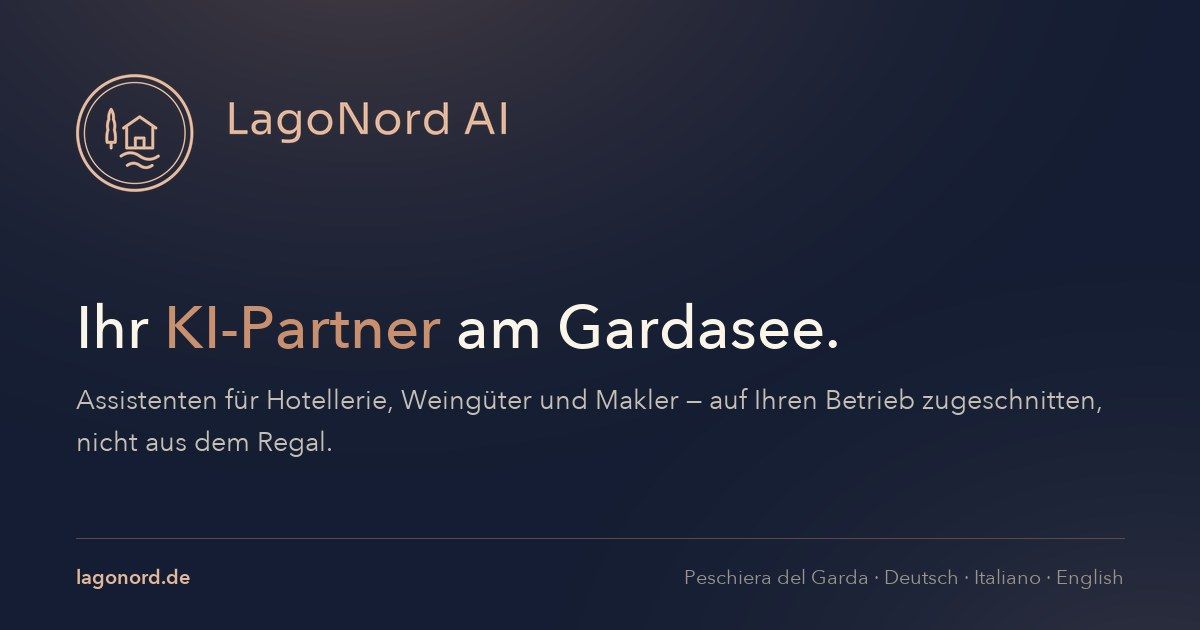
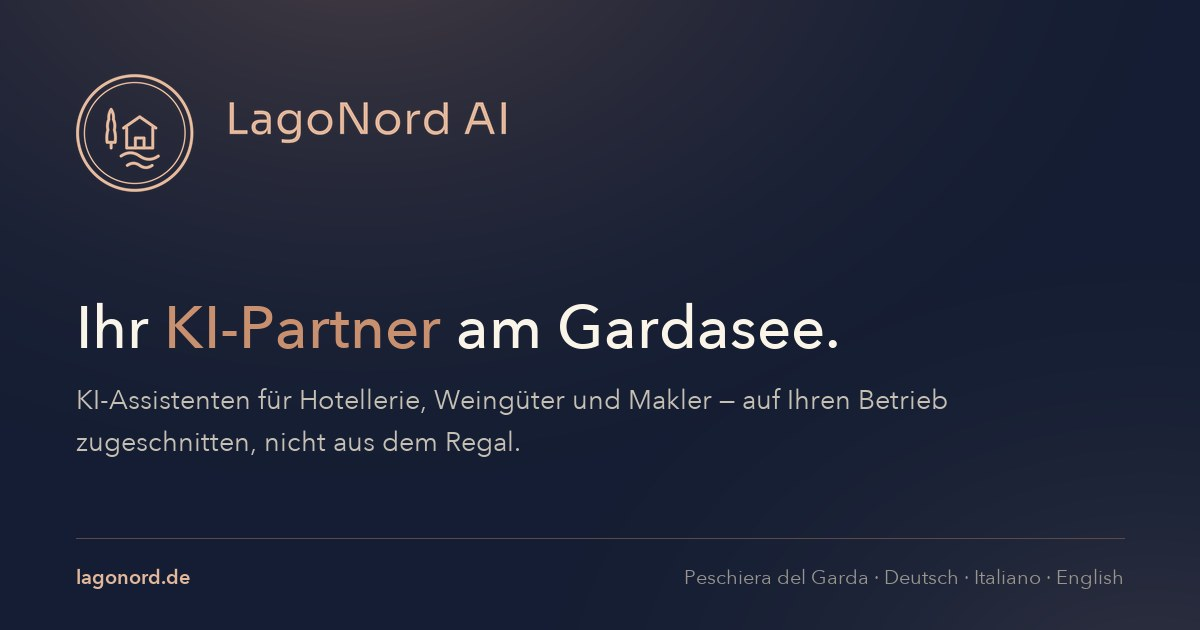
Teilbarkeit: OG-Bild und Beschreibungen nachgezogen
OG-Bild neu gerendert: die Unterzeile sagte "Assistenten", die
freigegebene Copy sagt "KI-Assistenten". Im Artefakt, fuer das Ae8
existiert, stand damit in jedem geteilten Link das abweichende Wort.
Sonst unveraendert, 1200x630, 51 KB.

Beschreibungen gekuerzt: die alte Fassung war 169 Zeichen und wurde bei
etwa 155 abgeschnitten — weg fiel gerade "auf Deutsch, Italienisch und
Englisch", also das Unterscheidungsmerkmal. Jetzt DE 137, IT 117, EN 127
Zeichen, die drei Sprachen in allen dreien enthalten. Der einleitende
Halbsatz entfaellt, den traegt der Titel ohnehin.

Gesetzt an allen vier Stellen der deutschen Fassung plus META.it und
META.en im Skript.

Claude-Session: https://claude.ai/code/session_01GMM68iPSXPER7XRppNHELY

Changed region(s): [[0.0617, 0.6032, 0.925, 0.6635], [0.0617, 0.6937, 0.4317, 0.7238]]

diff --git a/index.html b/index.html
@@ -4,7 +4,7 @@
 <meta charset="UTF-8">
 <meta name="viewport" content="width=device-width, initial-scale=1.0">
 <title>LagoNord AI — KI-Assistenten für Betriebe am Gardasee</title>
-<meta name="description" content="LagoNord AI ist Ihr KI-Partner am Gardasee. KI-Assistenten für Hotellerie, Weingüter und Makler — auf Ihren Betrieb zugeschnitten, auf Deutsch, Italienisch und Englisch.">
+<meta name="description" content="KI-Assistenten für Hotellerie, Weingüter und Makler am Gardasee — auf Ihren Betrieb zugeschnitten, auf Deutsch, Italienisch und Englisch.">
 <link rel="canonical" href="https://www.lagonord.de/">
 
 <!-- Teilbarkeit (Ä8). Die geteilte Vorschau ist immer deutsch: Scraper lesen
@@ -18,14 +18,14 @@
 <meta property="og:locale:alternate" content="it_IT">
 <meta property="og:locale:alternate" content="en_GB">
 <meta property="og:title" content="LagoNord AI — KI-Assistenten für Betriebe am Gardasee">
-<meta property="og:description" content="LagoNord AI ist Ihr KI-Partner am Gardasee. KI-Assistenten für Hotellerie, Weingüter und Makler — auf Ihren Betrieb zugeschnitten, auf Deutsch, Italienisch und Englisch.">
+<meta property="og:description" content="KI-Assistenten für Hotellerie, Weingüter und Makler am Gardasee — auf Ihren Betrieb zugeschnitten, auf Deutsch, Italienisch und Englisch.">
 <meta property="og:image" content="https://www.lagonord.de/assets/og.jpg">
 <meta property="og:image:width" content="1200">
 <meta property="og:image:height" content="630">
 <meta property="og:image:alt" content="LagoNord AI — Ihr KI-Partner am Gardasee">
 <meta name="twitter:card" content="summary_large_image">
 <meta name="twitter:title" content="LagoNord AI — KI-Assistenten für Betriebe am Gardasee">
-<meta name="twitter:description" content="LagoNord AI ist Ihr KI-Partner am Gardasee. KI-Assistenten für Hotellerie, Weingüter und Makler — auf Ihren Betrieb zugeschnitten, auf Deutsch, Italienisch und Englisch.">
+<meta name="twitter:description" content="KI-Assistenten für Hotellerie, Weingüter und Makler am Gardasee — auf Ihren Betrieb zugeschnitten, auf Deutsch, Italienisch und Englisch.">
 <meta name="twitter:image" content="https://www.lagonord.de/assets/og.jpg">
 <style id="schrift">
[1 lines of base64/hex data omitted]
@@ -1122,11 +1122,11 @@ section.blk{padding:96px 0;position:relative;overflow:hidden}
     document.documentElement.lang = lang;
     var META = {
       de:{t:'LagoNord AI — KI-Assistenten für Betriebe am Gardasee',
-          d:'LagoNord AI ist Ihr KI-Partner am Gardasee. KI-Assistenten für Hotellerie, Weingüter und Makler — auf Ihren Betrieb zugeschnitten, auf Deutsch, Italienisch und Englisch.'},
+          d:'KI-Assistenten für Hotellerie, Weingüter und Makler am Gardasee — auf Ihren Betrieb zugeschnitten, auf Deutsch, Italienisch und Englisch.'},
       it:{t:'LagoNord AI — assistenti AI per le aziende sul lago di Garda',
-          d:'LagoNord AI è il vostro partner AI sul lago di Garda. Assistenti AI per hotel, cantine e agenzie immobiliari — su misura per la vostra azienda, in tedesco, italiano e inglese.'},
+          d:'Assistenti AI per hotel, cantine e agenzie immobiliari sul lago di Garda — su misura, in tedesco, italiano e inglese.'},
       en:{t:'LagoNord AI — AI assistants for businesses at Lake Garda',
-          d:'LagoNord AI is your AI partner at Lake Garda. AI assistants for hotels, wineries and estate agents — tailored to your business, in German, Italian and English.'}
+          d:'AI assistants for hotels, wineries and estate agents at Lake Garda — tailored to your business, in German, Italian and English.'}
     };
     document.title = META[lang].t;
     var md = document.querySelector('meta[name="description"]');

diff --git a/FORTSCHRITT.md b/FORTSCHRITT.md
@@ -419,3 +419,26 @@ preparation." Der alte Schlüssel ist entfernt.
 
 Der neue Satz lässt weg, was der alte über Auftrag, Ton und Wissenszugriff je
 Rolle sagte. Das steht weiter auf den beiden Rollenkarten selbst.
+
+## 2026-09-03 23:46 CEST · Teilbarkeit nachgezogen
+
+**OG-Bild neu gerendert.** Die Unterzeile sagte „Assistenten", die freigegebene
+Copy sagt „KI-Assistenten" — im Artefakt, für das Ä8 überhaupt existiert, stand
+damit in jedem geteilten Link das abweichende Wort. Sonst unverändert:
+1200×630, 51 KB, gleiche Anlage.
+
+**Beschreibungen gekürzt.** Die alte Fassung war 169 Zeichen lang und wurde bei
+etwa 155 abgeschnitten — weg fiel gerade „auf Deutsch, Italienisch und
+Englisch", also das Unterscheidungsmerkmal. Neu fällt der einleitende Halbsatz
+weg, den der Titel ohnehin trägt; die drei Sprachen stehen jetzt im sichtbaren
+Bereich.
+
+| Sprache | Zeichen | Drei Sprachen genannt |
+|---|---|---|
+| DE | 137 | ja |
+| IT | 117 | ja |
+| EN | 127 | ja |
+
+Gesetzt an allen vier Stellen der deutschen Fassung: `meta[description]`,
+`og:description`, `twitter:description` und `META.de.d` im Skript, dazu
+`META.it.d` und `META.en.d`.
